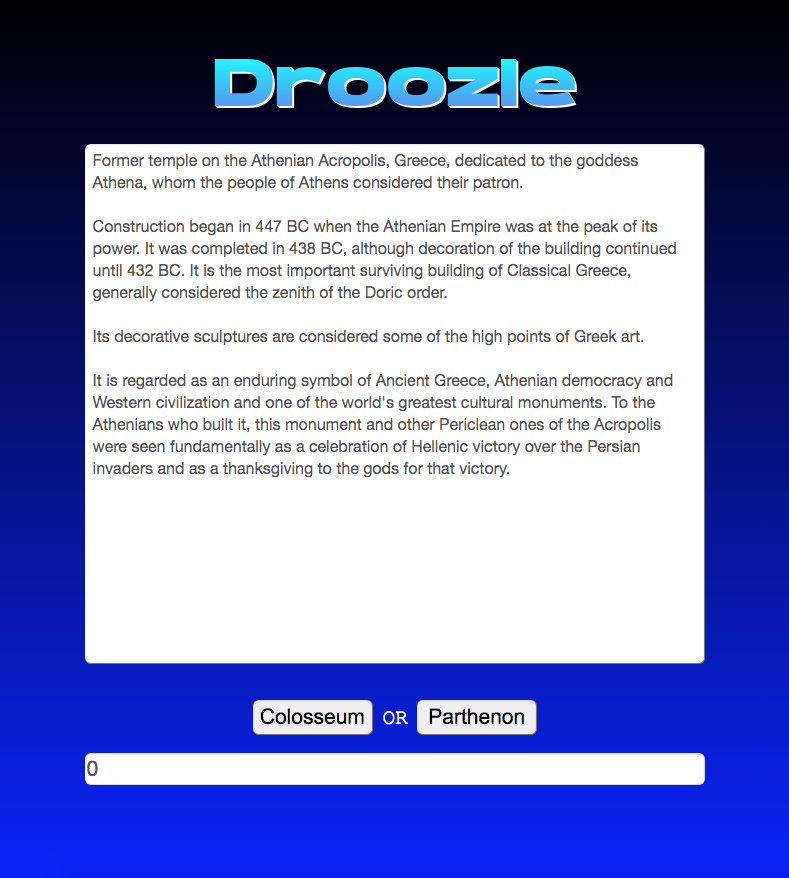
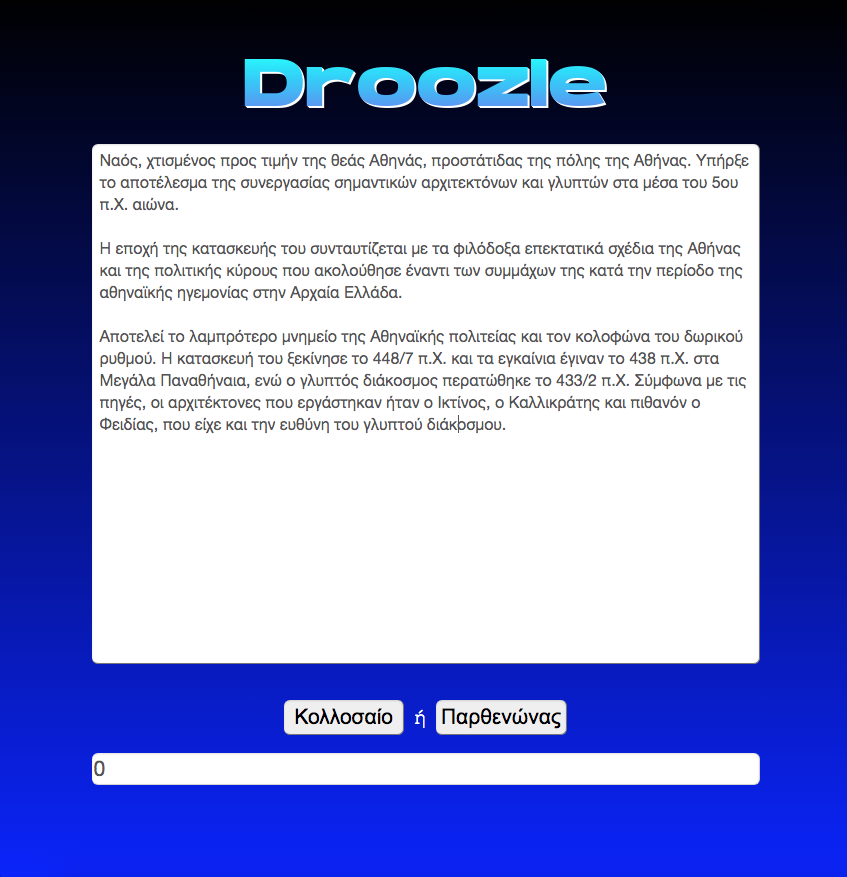
Set greek language description in README.md

diff --git a/README.md b/README.md
@@ -1,23 +1,21 @@
-# Droozle
+# Droozle - Αυτό ή Εκείνο?
 
-Game in which user has to choose between two different answers
+Παιχνίδι στο οποίο ο παίχτης καλείται να επιλέξει ανάμεσα σε δύο απαντήσεις
 
 <b>URL</b>: https://Droozle.github.io/droozle<br>
 <b>Google Play Store</b>: https://play.google.com/store/apps/details?id=appinventor.ai_fsiamp.droozle
 
-[<img src="https://raw.githubusercontent.com/Droozle/droozle/master/donate.gif">](https://www.paypal.com/cgi-bin/webscr?cmd=_s-xclick&hosted_button_id=S4ALKTFPQ2MHW&source=url)
+H εφαρμογή είναι γραμμένη σε HTML, Javascript, AJAX, jQuery and CSS.
 
-Application written in HTML, Javascript, jQuery and CSS.
+Το παιχνίδι παρουσιάζει μία σειρά από περιγραφές κειμένου στις οποίες ο παίχτης πρέπει να απαντήσει σωστά.
+Η σωστή απάντηση αποτελεί αυτήν η οποία περιγράφει καλύτερα το προαναφερθές κομμάτι κειμένου.
 
-It includes a series of questions in which the user is challenged to answer them correctly. 
-The answer is based on what describes best the aforementioned piece of text.
+Για κάθε ερώτηση που απαντάνται σωστά, ο παίχτης συλλέγει 2000 βαθμούς.
+Αν η απάντηση που δόθηκε είναι λάθος, τότε 1000 βαθμοί αφαιρούνται.
 
-For every question that is answered correctly, player gets 2000 points. 
-If the answer is not correct then 1000 points are lost.
+Το συνολικό σκόπ εμφανίζεται στο κάτω μέρος της σελίδας.
 
-Total collected score is appeared at the bottom of the page.
-
-CHALLENGE: Can you answer all the questions correctly?
+CHALLENGE: Μπορείς να απαντήσεις όλες τις ερωτήσεις σωστά?
 
 # Screenshot
 
